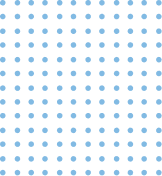
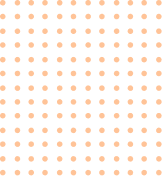
aded future section

diff --git a/src/Pages/LandingPage/Future.js b/src/Pages/LandingPage/Future.js
@@ -1,20 +1,26 @@
 import React from 'react';
 import circle from "../../Asset/Future/Group 49.png"
+import image from "../../Asset/Future/img.png"
+import dot from "../../Asset/Future/Dot Pattern 3.png"
+import shape from "../../Asset/Future/Spheres 1.png"
 const Future = () => {
   return (
-    <div className="w-10/12 mx-auto mt-40">
-      <div className="bg-">
+    <div className="w-10/12 mx-auto mt-40 mb-28 relative">
+      <div className=" bg-[#001858]">
         <div className="flex justify-around items-center">
-          <div>
-            <h1>Build your bright future</h1>
-            <p>Leo mi faucibus elit sociis vitae nisi sed neque. Tortor diam arcu in facilisi vestibulum.</p>
-            <button>Meet Our Expert</button>
+          <div className="pl-[100px] flex-1">
+            <h1 className="font-[IBM Plex Sans] text-[55px] leading-snug not-italic text-[#FEF6E4] font-bold">Build your bright future</h1>
+            <p className="font-[IBM Plex Sans] text-base not-italic text-[#FFFFFF] font-light mt-6 mb-10">Leo mi faucibus elit sociis vitae nisi sed neque. Tortor diam arcu in facilisi vestibulum.</p>
+            <button className="bg-[#FFC397] py-3 px-8 font-[IBM Plex Sans] text-base not-italic text-[#001858] font-semibold">Meet Our Expert</button>
           </div>
-          <div>
-            <img src={circle} alt="" />
+          <div className="flex-1">
+            <img src={circle} alt="" className="ml-[4.5%]"/> 
+            <img src={image} alt="" className="mt-[-93%] ml-12"/>
           </div>
         </div>
       </div>
+        <img src={dot} alt="" className="absolute bottom-[-7.5%] left-[-5%] z-[-1]" />
+        <img src={shape} alt="" className="absolute bottom-[-5.5%] left-[-2.2%] w-24 h-24" />
     </div>
   );
 };
